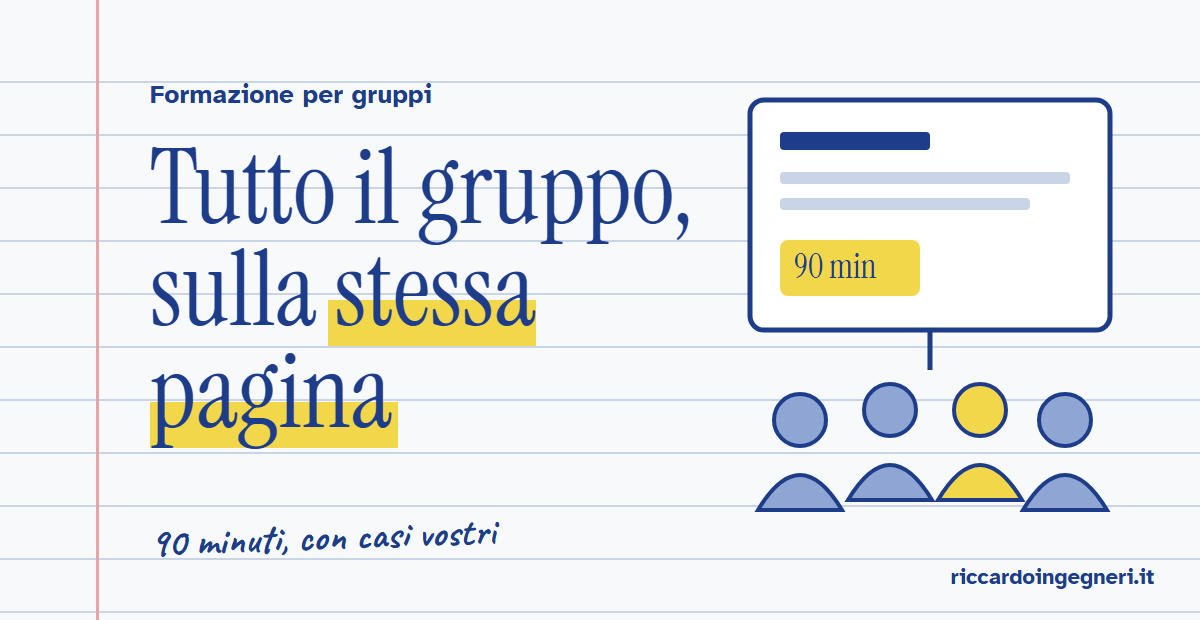
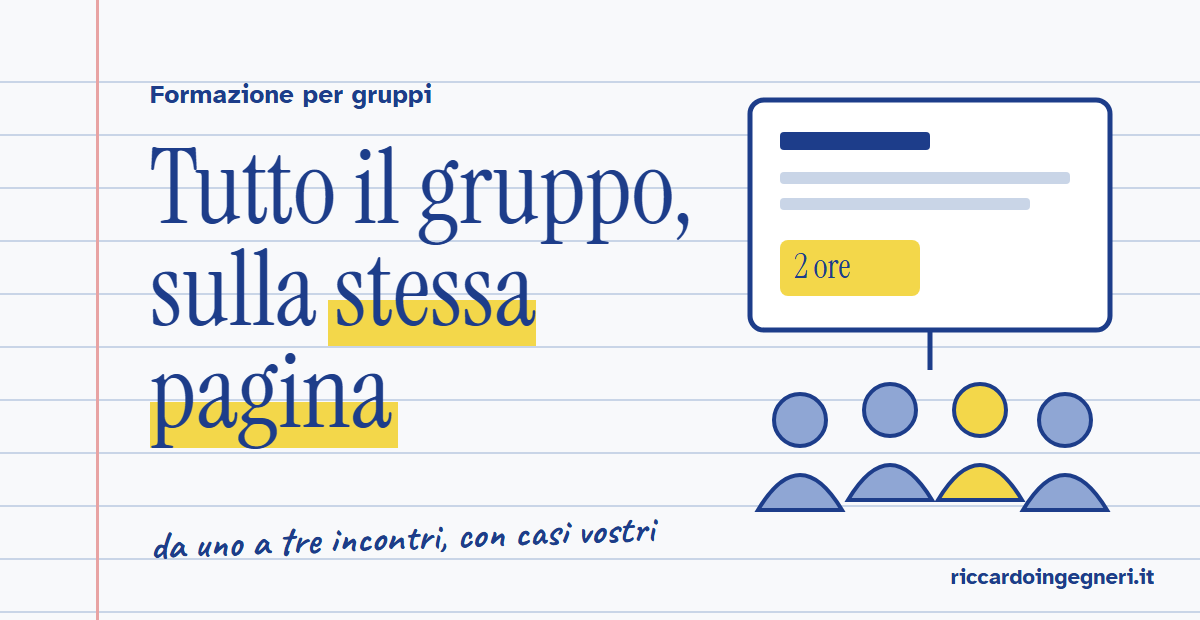
feat(servizi): pagina dei servizi (non collegata dalla home) e formazione in tre pacchetti

Changed region(s): [[0.1233, 0.8274, 0.555, 0.9194], [0.6475, 0.3984, 0.74, 0.4597]]

diff --git a/servizi/index.html b/servizi/index.html
@@ -1,0 +1,259 @@
+<!doctype html>
+<html lang="it">
+<head>
+<meta charset="utf-8">
+<meta name="viewport" content="width=device-width, initial-scale=1">
+<title>Servizi: sessioni pratiche, automazioni e formazione con Riccardo Ingegneri</title>
+<meta name="description" content="Una sessione pratica sul tuo lavoro, un'automazione su misura o una formazione per il tuo gruppo. Chiedi i dettagli: ti arrivano subito via mail.">
+<meta property="og:title" content="Cosa posso fare per te">
+<meta property="og:description" content="Sessione pratica, automazioni su misura, formazione per gruppi. I dettagli ti arrivano via mail.">
+<meta property="og:image" content="https://riccardoingegneri.it/img/riccardo.jpg">
+<meta property="og:url" content="https://riccardoingegneri.it/servizi/">
+<link rel="canonical" href="https://riccardoingegneri.it/servizi/">
+<meta name="theme-color" content="#1d3d8a">
+<link rel="preconnect" href="https://fonts.googleapis.com">
+<link rel="preconnect" href="https://fonts.gstatic.com" crossorigin="">
+<link href="https://fonts.googleapis.com/css2?family=Atkinson+Hyperlegible:wght@400;700&amp;family=Instrument+Serif&amp;family=Caveat:wght@700&amp;display=swap" rel="stylesheet">
+<style>
+:root{--ink:#1d3d8a;--text:#18202f;--paper:#f8f9fb;--rule:#c9d5e7;--panel:#eceff5;--lamp:#f3d74a}
+*{box-sizing:border-box}
+html{scroll-behavior:smooth}
+body{margin:0;background:var(--paper);color:var(--text);font-family:'Atkinson Hyperlegible',system-ui,sans-serif;font-size:19px;line-height:1.6;-webkit-font-smoothing:antialiased}
+a{color:var(--ink);text-decoration-thickness:2px;text-underline-offset:3px}
+a:focus-visible,button:focus-visible{outline:3px solid var(--lamp);outline-offset:3px}
+h1,h2,h3{font-family:'Instrument Serif',Georgia,serif;font-weight:400;color:var(--ink);margin:0;text-wrap:pretty}
+p{margin:0;text-wrap:pretty}
+[hidden]{display:none!important}
+.wrap{max-width:720px;margin:0 auto;padding:0 22px}
+
+/* testata */
+.foglio{background-image:repeating-linear-gradient(to bottom,transparent 0 35px,var(--rule) 35px 36px);background-position:0 18px;padding:22px 0 36px;border-bottom:3px solid var(--ink)}
+.casa{display:inline-flex;align-items:center;gap:12px;min-height:48px;text-decoration:none;color:var(--text);font-weight:700}
+.casa img{width:52px;height:52px;border-radius:50%;object-fit:cover;object-position:50% 25%;border:3px solid #fff;box-shadow:0 0 0 2px var(--ink)}
+h1{font-size:48px;line-height:1.04;margin-top:22px}
+.sub{margin-top:14px}
+
+/* i servizi */
+.servizi{padding:30px 0 40px;display:flex;flex-direction:column;gap:22px}
+.servizio{background:#fff;border-radius:8px;border-left:8px solid var(--ink);padding:24px 22px 24px}
+.servizio:nth-child(2){border-left-color:var(--lamp)}
+.servizio:nth-child(3){border-left-color:#8fa6d4}
+.servizio h2{font-size:36px;line-height:1.08;margin-bottom:16px}
+.voce{margin-top:12px}
+.voce b{display:block;font-size:16px;color:var(--ink)}
+.chiedi{display:flex;align-items:center;justify-content:center;width:100%;min-height:58px;margin-top:20px;padding:0 18px;font:inherit;font-size:20px;font-weight:700;color:#fff;background:var(--ink);border:0;border-radius:8px;cursor:pointer}
+.chiedi:hover{background:#163070}
+.incerto{padding:0 0 40px}
+.incerto p{background:var(--panel);border-radius:8px;padding:16px 18px}
+
+/* modulo */
+.banda{background:var(--ink);padding:36px 0 22px}
+.banda h2{color:#fff;font-size:40px;margin-bottom:18px}
+.sheet{background-color:#fff;background-image:repeating-linear-gradient(to bottom,transparent 0 35px,var(--rule) 35px 36px);border-radius:6px;border-top:10px solid var(--lamp);padding:28px 22px 30px}
+.campo{margin-bottom:24px}
+.campo label,.campo legend{display:block;font-weight:700;font-size:20px;line-height:1.35;margin-bottom:6px;color:var(--ink);padding:0}
+.aiuto{display:block;font-weight:400;font-size:17px;color:#4a5263}
+fieldset{border:0;margin:0 0 24px;padding:0;min-width:0}
+.campo input[type=text],.campo input[type=email],.campo textarea{display:block;width:100%;min-height:56px;padding:10px 14px;font:inherit;font-size:19px;color:var(--text);background:#fff;border:2px solid #9fb0cc;border-radius:6px}
+.campo textarea{min-height:110px;resize:vertical;line-height:1.5}
+.campo input:focus,.campo textarea:focus{outline:3px solid var(--lamp);outline-offset:1px;border-color:var(--ink)}
+[aria-invalid="true"]{border-color:#b3261e!important}
+.errore{display:block;margin-top:6px;font-size:17px;color:#b3261e;font-weight:700}
+.spunta{display:flex;gap:14px;align-items:flex-start;padding:9px 0;font-size:18px;line-height:1.45;cursor:pointer}
+.spunta input{flex:none;width:28px;height:28px;margin:0;accent-color:var(--ink);cursor:pointer}
+.campo .spunta{display:flex;margin:0;font-weight:400;font-size:18px;line-height:1.45;color:var(--text);border-top:1px solid var(--panel);background:#fff;padding:10px 0}
+.campo .spunta:first-of-type{border-top:0}
+.nascosto{position:absolute;left:-9999px;width:1px;height:1px;overflow:hidden}
+.invia{display:flex;align-items:center;justify-content:center;width:100%;min-height:66px;margin-top:6px;padding:0 20px;font:inherit;font-size:22px;font-weight:700;color:var(--text);background:var(--lamp);border:3px solid var(--ink);border-radius:8px;box-shadow:4px 5px 0 var(--ink);cursor:pointer}
+.invia:hover{background:#f7e27a}
+.invia:active{transform:translate(2px,3px);box-shadow:2px 2px 0 var(--ink)}
+.invia[disabled]{opacity:.7;cursor:wait}
+.problema{margin-top:16px;padding:12px 14px;background:#fdf0ee;border-left:4px solid #b3261e;font-size:18px}
+.grazie h3{font-size:40px;line-height:1.1;margin-bottom:12px}
+.grazie p{font-size:20px}
+.grazie p+p{margin-top:12px}
+.fallback{padding:18px 4px 8px;font-size:18px}
+.fallback a{color:#fff;display:inline-flex;min-height:48px;align-items:center}
+
+footer{padding:30px 0 52px;font-size:17px;line-height:1.75;text-align:center}
+footer a{display:inline-flex;min-height:44px;align-items:center}
+@media (min-width:860px){
+  body{font-size:20px}
+  .foglio{padding:36px 0 52px}
+  h1{font-size:64px}
+  .servizio{padding:30px 32px}
+  .banda{padding:56px 0 34px}
+  .banda h2{font-size:48px}
+  .sheet{padding:36px 36px 38px}
+}
+</style>
+</head>
+<body>
+
+<header class="foglio">
+  <div class="wrap">
+    <a class="casa" href="/"><img src="/img/riccardo.jpg" alt="" width="900" height="1200"><span>Riccardo Ingegneri</span></a>
+    <h1>Cosa posso fare per te</h1>
+    <p class="sub">Tre modi di lavorare insieme, dal più semplice al più su misura. Scegli quello che ti interessa: i dettagli, con i costi, ti arrivano subito via mail.</p>
+  </div>
+</header>
+
+<main>
+  <div class="wrap">
+    <div class="servizi">
+      <article class="servizio" id="sessione">
+        <h2>Una sessione pratica sul tuo lavoro</h2>
+        <p class="voce"><b>Per chi</b>Professionisti, consulenti e piccoli uffici che vogliono usare l'intelligenza artificiale e gli strumenti digitali, ma non sanno da dove partire.</p>
+        <p class="voce"><b>Come funziona</b>Un'ora online a tu per tu. Partiamo da un'attività concreta del tuo lavoro e la proviamo insieme, con lo strumento adatto.</p>
+        <p class="voce"><b>Cosa ti resta</b>Un procedimento che puoi ripetere da solo e un riepilogo scritto dei prossimi passi.</p>
+        <button type="button" class="chiedi" data-servizio="sessione">Ricevi i dettagli via mail</button>
+      </article>
+
+      <article class="servizio" id="automazione">
+        <h2>Un'automazione su misura</h2>
+        <p class="voce"><b>Per chi</b>Chi ogni settimana perde tempo in lavori ripetitivi: posta, documenti, pratiche, informazioni da copiare da un posto all'altro.</p>
+        <p class="voce"><b>Come funziona</b>Guardiamo insieme il processo, poi ti propongo per iscritto una soluzione circoscritta, con tempi e costi chiari prima di iniziare.</p>
+        <p class="voce"><b>Cosa ti resta</b>Uno strumento funzionante che fa quel lavoro al posto tuo, con le istruzioni per usarlo.</p>
+        <button type="button" class="chiedi" data-servizio="automazione">Ricevi i dettagli via mail</button>
+      </article>
+
+      <article class="servizio" id="formazione">
+        <h2>Formazione per il tuo gruppo</h2>
+        <p class="voce"><b>Per chi</b>Studi, uffici, aziende ed enti di formazione che vogliono far lavorare meglio le persone con questi strumenti.</p>
+        <p class="voce"><b>Come funziona</b>Da uno a tre incontri di 2 ore, online o in presenza, su un tema scelto insieme: dimostrazioni, esercizi su casi vostri, limiti e controlli.</p>
+        <p class="voce"><b>Cosa ti resta</b>Indicazioni pratiche per tutto il gruppo, da usare dal giorno dopo.</p>
+        <button type="button" class="chiedi" data-servizio="formazione">Ricevi i dettagli via mail</button>
+      </article>
+    </div>
+
+    <div class="incerto">
+      <p>Non sai quale fa per te? Parliamone in una <a href="/parliamone/">consulenza gratuita di 20 minuti</a>.</p>
+    </div>
+  </div>
+
+  <div class="banda" id="richiesta">
+    <div class="wrap">
+      <h2>Ricevi i dettagli</h2>
+      <div class="sheet">
+        <!-- Il modulo invia a Apps Script (progetto «Webinar AI», Servizi.gs): la mail con i dettagli parte da lì -->
+        <form id="modulo" novalidate>
+          <fieldset class="campo" id="f-servizio">
+            <legend>Cosa ti interessa?</legend>
+            <label class="spunta"><input type="radio" name="servizio" value="sessione"><span>Una sessione pratica sul tuo lavoro</span></label>
+            <label class="spunta"><input type="radio" name="servizio" value="automazione"><span>Un'automazione su misura</span></label>
+            <label class="spunta"><input type="radio" name="servizio" value="formazione"><span>Formazione per il tuo gruppo</span></label>
+          </fieldset>
+          <div class="campo">
+            <label for="f-nome">Nome e cognome</label>
+            <input id="f-nome" name="nome" type="text" autocomplete="name" required>
+          </div>
+          <div class="campo">
+            <label for="f-email">Email</label>
+            <input id="f-email" name="email" type="email" autocomplete="email" inputmode="email" required>
+          </div>
+          <div class="campo">
+            <label for="f-lavoro">Che lavoro fai?</label>
+            <input id="f-lavoro" name="lavoro" type="text" autocomplete="organization-title" required>
+          </div>
+          <div class="campo">
+            <label for="f-problema">C'è un problema preciso da cui partire? <span class="aiuto">Facoltativo</span></label>
+            <textarea id="f-problema" name="problema" rows="3"></textarea>
+          </div>
+          <div class="nascosto" aria-hidden="true"><label for="f-sito">Lascia vuoto</label><input id="f-sito" name="sito" type="text" tabindex="-1" autocomplete="off"></div>
+          <label class="spunta"><input id="f-privacy" type="checkbox" required><span>Acconsento a essere ricontattato per la richiesta che ho fatto. <a href="/webinar/privacy" target="_blank" rel="noopener">Informativa</a></span></label>
+          <button class="invia" type="submit">Mandami i dettagli</button>
+          <p class="problema" id="problema" hidden>Non sono riuscito a inviare la richiesta. Controlla la connessione e riprova, oppure scrivimi a <a href="mailto:ingegneririccardo@gmail.com">ingegneririccardo@gmail.com</a>.</p>
+        </form>
+        <div class="grazie" id="grazie" hidden tabindex="-1">
+          <h3>Grazie, <span id="g-nome">a presto</span>!</h3>
+          <p>Ti ho appena mandato una mail con i dettagli. Se non la trovi, guarda nella posta indesiderata.</p>
+          <p>Per qualsiasi domanda, rispondi pure a quella mail: arriva direttamente a me.</p>
+        </div>
+      </div>
+      <p class="fallback"><a href="/">← Torna alla pagina principale</a></p>
+    </div>
+  </div>
+</main>
+
+<footer>
+  <div class="wrap">
+    <p><strong>Riccardo Ingegneri</strong> · P.IVA 03837300833</p>
+    <p><a href="mailto:ingegneririccardo@gmail.com">ingegneririccardo@gmail.com</a></p>
+    <p><a href="/webinar/privacy">Informativa privacy</a></p>
+  </div>
+</footer>
+
+<script>
+// I pulsanti dei servizi scelgono la voce nel modulo e ci portano lì.
+document.querySelectorAll('.chiedi').forEach(function (b) {
+  b.addEventListener('click', function () {
+    document.querySelector('input[name=servizio][value="' + b.dataset.servizio + '"]').checked = true;
+    document.getElementById('richiesta').scrollIntoView({ behavior: 'smooth' });
+    setTimeout(function () { document.getElementById('f-nome').focus({ preventScroll: true }); }, 500);
+  });
+});
+
+// Controlla i campi e invia a Apps Script (no-cors: la risposta non si legge; se la richiesta parte, è arrivata).
+(function () {
+  var URL = 'https://script.google.com/macros/s/AKfycbwnVB_8M2oiprBak9EdHAoBEfH8dj16F90r65n2Q-qLeLx4M97FOpmqn00lbPbT5ohUUQ/exec';
+  var form = document.getElementById('modulo');
+  var bottone = form.querySelector('.invia');
+
+  function segna(campo, dove, messaggio) {
+    campo.removeAttribute('aria-invalid');
+    if (!messaggio) return true;
+    var e = document.createElement('span');
+    e.className = 'errore';
+    e.id = campo.id + '-errore';
+    e.textContent = messaggio;
+    dove.parentNode.insertBefore(e, dove.nextSibling);
+    campo.setAttribute('aria-invalid', 'true');
+    campo.setAttribute('aria-describedby', e.id);
+    return false;
+  }
+  function controlla() {
+    form.querySelectorAll('.errore').forEach(function (e) { e.remove(); });
+    var servizio = document.getElementById('f-servizio'), nome = document.getElementById('f-nome'), email = document.getElementById('f-email');
+    var lavoro = document.getElementById('f-lavoro'), privacy = document.getElementById('f-privacy');
+    var ok = [
+      segna(servizio, servizio.lastElementChild, form.querySelector('input[name=servizio]:checked') ? '' : 'Scegli il servizio che ti interessa.'),
+      segna(nome, nome, nome.value.trim() ? '' : 'Scrivi il tuo nome.'),
+      segna(email, email, /^[^\s@]+@[^\s@]+\.[^\s@]{2,}$/.test(email.value.trim()) ? '' : 'Controlla l\'indirizzo email: sembra incompleto.'),
+      segna(lavoro, lavoro, lavoro.value.trim() ? '' : 'Scrivi in due parole che lavoro fai.'),
+      segna(privacy, privacy.parentNode, privacy.checked ? '' : 'Per mandare la richiesta serve questa spunta.')
+    ];
+    var primo = [servizio.querySelector('input'), nome, email, lavoro, privacy][ok.indexOf(false)];
+    if (primo) primo.focus();
+    return !primo;
+  }
+
+  form.addEventListener('submit', function (ev) {
+    ev.preventDefault();
+    document.getElementById('problema').hidden = true;
+    if (!controlla()) return;
+    var dati = new URLSearchParams();
+    dati.append('tipo', 'servizio');
+    dati.append('servizio', form.querySelector('input[name=servizio]:checked').value);
+    ['nome', 'email', 'lavoro', 'problema', 'sito'].forEach(function (n) { dati.append(n, form.elements[n].value.trim()); });
+    dati.append('privacy', 'si');
+    bottone.disabled = true;
+    bottone.textContent = 'Invio in corso…';
+    fetch(URL, { method: 'POST', mode: 'no-cors', body: dati })
+      .then(function () {
+        var nome = document.getElementById('f-nome').value.trim().split(/\s+/)[0];
+        if (nome) document.getElementById('g-nome').textContent = nome;
+        form.hidden = true;
+        var g = document.getElementById('grazie');
+        g.hidden = false;
+        g.focus();
+      })
+      .catch(function () {
+        bottone.disabled = false;
+        bottone.textContent = 'Mandami i dettagli';
+        document.getElementById('problema').hidden = false;
+      });
+  });
+})();
+</script>
+</body>
+</html>

diff --git a/strumenti/mail/copertine.html b/strumenti/mail/copertine.html
@@ -80,13 +80,13 @@ h1 span{background:linear-gradient(transparent 58%,var(--lamp) 58%,var(--lamp) 9
     <p class="tipo">Formazione per gruppi</p>
     <h1>Tutto il gruppo, sulla <span>stessa pagina</span></h1>
   </div>
-  <p class="nota">90 minuti, con casi vostri</p>
+  <p class="nota">da uno a tre incontri, con casi vostri</p>
   <svg class="disegno" viewBox="0 0 400 480" aria-hidden="true">
     <rect x="20" y="30" width="360" height="230" rx="14" fill="#fff" stroke="#1d3d8a" stroke-width="5"/>
     <rect x="50" y="62" width="150" height="18" rx="4" fill="#1d3d8a"/>
     <rect x="50" y="102" width="290" height="12" rx="4" fill="#c9d5e7"/><rect x="50" y="128" width="250" height="12" rx="4" fill="#c9d5e7"/>
     <rect x="50" y="170" width="140" height="56" rx="8" fill="#f3d74a"/>
-    <text x="64" y="208" font-family="Instrument Serif" font-size="34" fill="#1d3d8a">90 min</text>
+    <text x="64" y="208" font-family="Instrument Serif" font-size="34" fill="#1d3d8a">2 ore</text>
     <line x1="200" y1="260" x2="200" y2="300" stroke="#1d3d8a" stroke-width="5"/>
     <g fill="#8fa6d4" stroke="#1d3d8a" stroke-width="4">
       <circle cx="70" cy="350" r="26"/><path d="M28 440 q42 -70 84 0 z"/>
